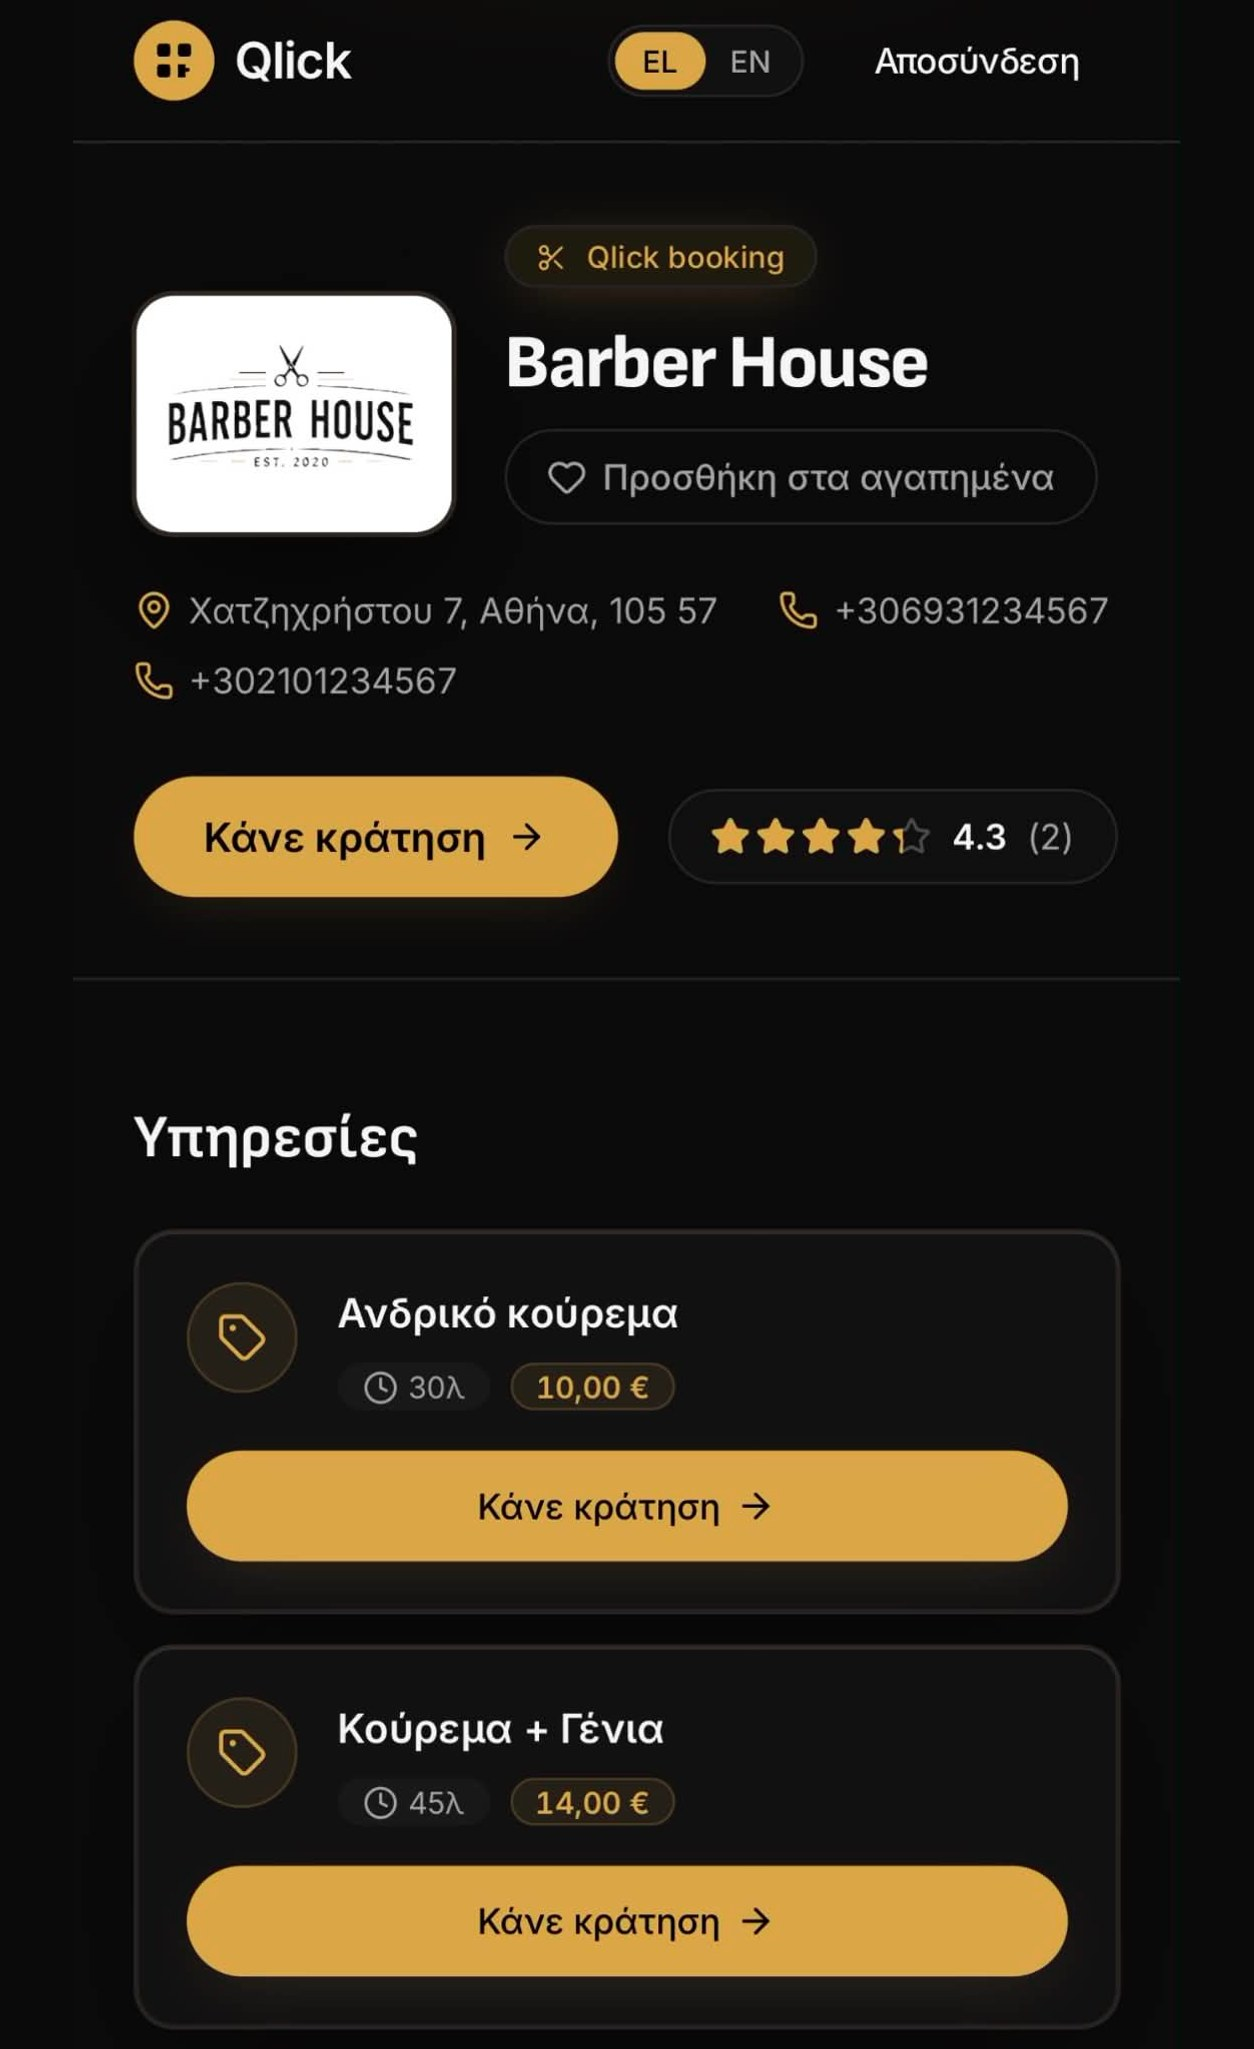
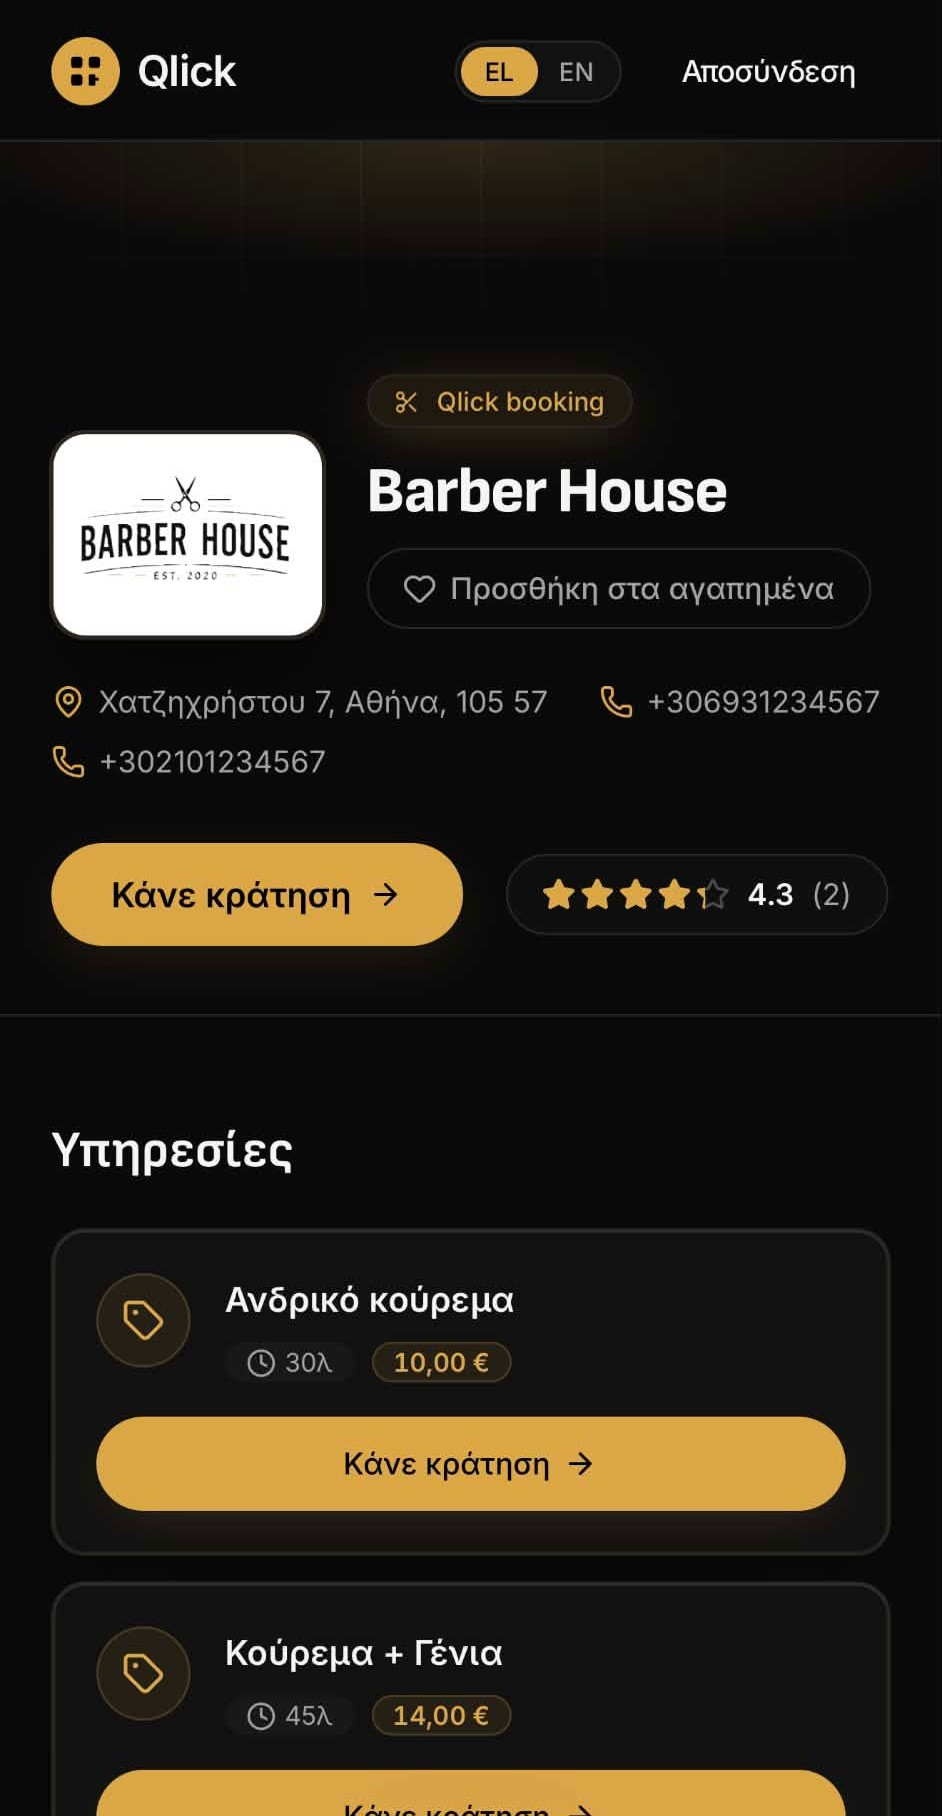
Use three clean, uniform booking screenshots in the phone demo
The earlier photos were captured in mixed states (logged-out with a full
browser toolbar vs logged-in with a minimal bar), so they framed
inconsistently. Keep the three that share identical chrome (shop, day & time,
confirmation), crop the phone status bar and browser bar off each uniformly
(942x1816), and match the frame ratio.

diff --git a/qlick-app/components/marketing/phone-demo.tsx b/qlick-app/components/marketing/phone-demo.tsx
@@ -19,9 +19,9 @@ export interface PhoneDemoStrings {
  * (shop → service → day & time → staff → confirm → booked), cross-fading so
  * visitors see the genuine product rather than a stylised mock.
  */
-const FRAMES = ["/1.jpg", "/2.jpg", "/3.jpg", "/4.jpg", "/5.jpg", "/6.jpg"];
-// Linger a touch longer on the confirmation and success frames.
-const DELAYS = [2200, 2000, 2400, 2200, 2600, 3000];
+const FRAMES = ["/1.jpg", "/2.jpg", "/3.jpg"];
+// shop → pick day & time → confirm. Linger a touch on the confirmation.
+const DELAYS = [2600, 2600, 3200];
 
 export function PhoneDemo({ s }: { s: PhoneDemoStrings }) {
   const reduce = useReducedMotion();
@@ -40,7 +40,7 @@ export function PhoneDemo({ s }: { s: PhoneDemoStrings }) {
       ref={rootRef}
       className="relative mx-auto w-[300px] rounded-[44px] border border-border-strong bg-surface p-2.5 shadow-2xl shadow-black/70 ring-1 ring-white/5 sm:w-[320px]"
     >
-      <div className="relative h-[458px] overflow-hidden rounded-[34px] bg-background sm:h-[490px]">
+      <div className="relative h-[540px] overflow-hidden rounded-[34px] bg-background sm:h-[578px]">
         {FRAMES.map((src, idx) => (
           <motion.img
             // eslint-disable-next-line @next/next/no-img-element